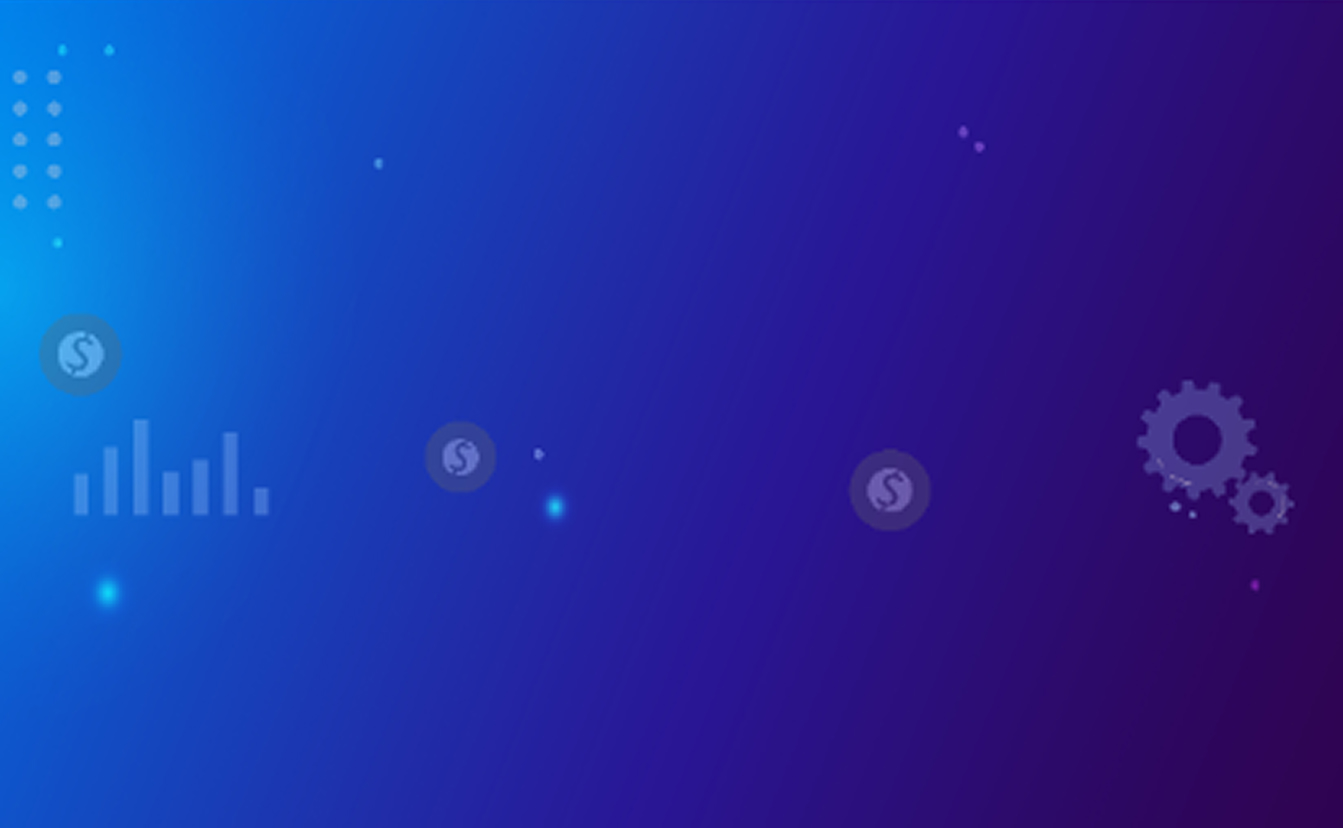
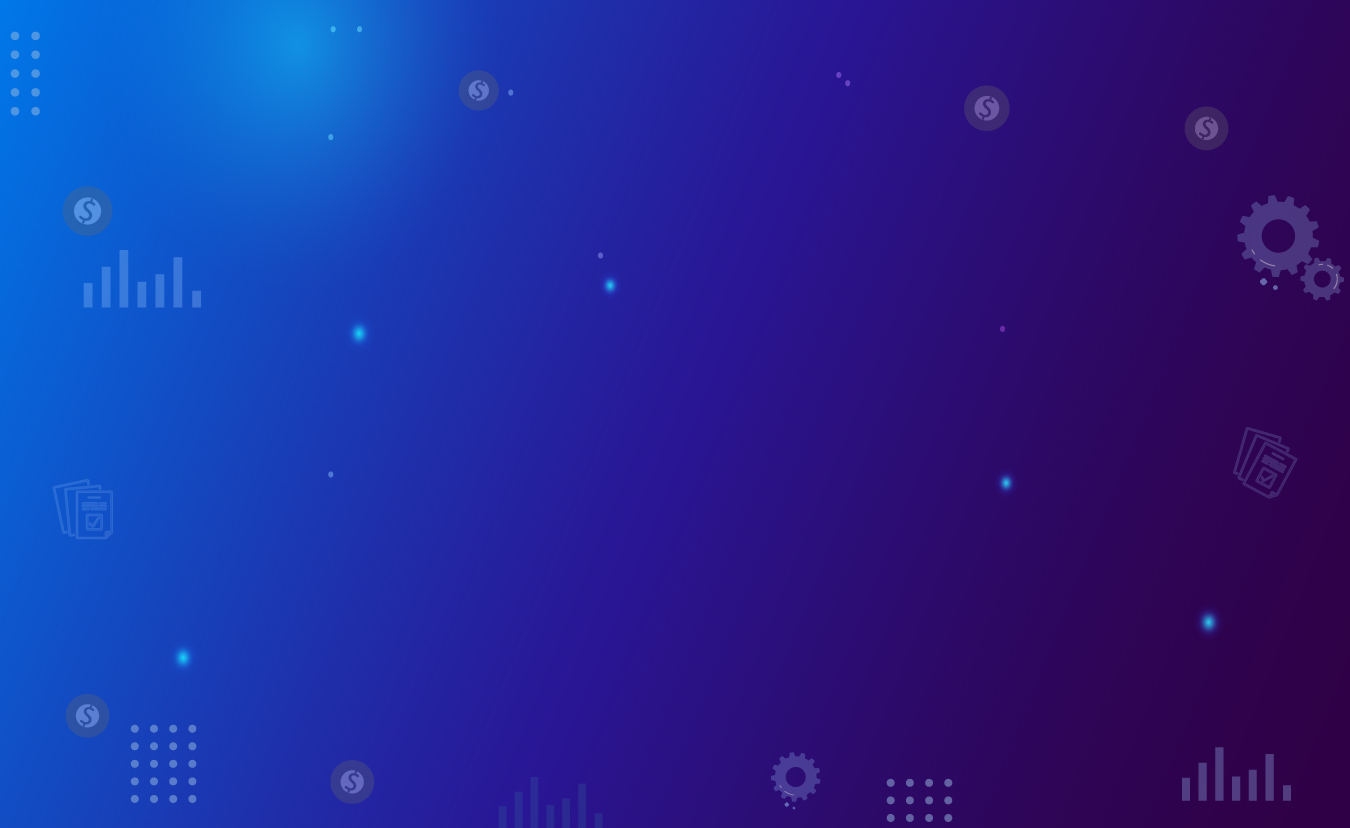
Final changes

diff --git a/frontend/src/app/app.component.css b/frontend/src/app/app.component.css
@@ -305,6 +305,7 @@ background: linear-gradient(180deg,rgba(209, 44, 91, 0.98) 0%, rgba(130, 14, 47,
     background-position: 100%;
     background-size: 100% 100%;  
     height: 600px;
+    border-bottom: 3px solid #fff;
   }
   .level-one{
     padding-top: 40px;    
@@ -458,13 +459,32 @@ background: linear-gradient(180deg,rgba(209, 44, 91, 0.98) 0%, rgba(130, 14, 47,
 }
 
 .gifts-grid {
-  display: grid;
-  grid-template-columns: repeat(3, 1fr); /* 3 columns */ 
-  width: 800px;
-  justify-items: center; /* Center items within their grid cells */
-  align-items: center; /* Vertically center items */
-  gap: 30px 10px;
-  padding-top: 40px;
+  display: flex;
+  flex-wrap: wrap;           /* allow multiple rows */
+  justify-content: center;   /* center each row's content */
+  gap: 20px;                 /* spacing between items */
+  max-width: 900px;
+  margin: 32px auto;
+  padding: 0 12px;
+  box-sizing: border-box;
+}
+
+.gift-item {
+  /* width: (100% - total horizontal gaps) / 3  */
+  flex: 0 0 calc((100% - 40px) / 3); /* 3 columns, gap*2 = 40px */
+  max-width: 280px;           /* optional cap */
+  display: flex;
+  justify-content: center;
+  align-items: center;
+  box-sizing: border-box;
+}
+
+.gift-image {
+  width: 100%;
+  max-width: 220px;           /* control box size */
+  height: auto;
+  display: block;
+  object-fit: contain;
 }
 
 .user-form {

diff --git a/frontend/src/app/quiz-modal/quiz-modal.component.html b/frontend/src/app/quiz-modal/quiz-modal.component.html
@@ -4,10 +4,20 @@
       <i class="bi bi-x-circle-fill"></i>
     </button>
     <div class="content-wrapper">
+      
+      <!-- Surprise block only for question 4 -->
+      <ng-container *ngIf="quiz.id === 4">
+        <div class="info-text">
+          <strong class="heading">🎉 SURPRISE!</strong>
+          <span class="bonus-text">+2 bonus points for quick thinking</span>
+        </div>
+      </ng-container>
+      
+
+      <!-- Question -->
       <h2 class="question-text">{{ quiz.question }}</h2>
       
-      <div *ngIf="quiz.options && quiz.options.length > 0; else infoTemplate">
-
+      <!-- Options -->
       <div class="options-grid">
         <button  *ngFor="let option of quiz.options; let i = index"
                 class="option-button"
@@ -17,14 +27,6 @@
           <span class="option-text">{{ option }}</span>
         </button>
       </div>
-      </div>
-
-      <ng-template #infoTemplate>
-        <div class="info-text">
-          <strong class="heading">SURPRISE !</strong>
-          <p>+2 bonus points <br> for quick thinking.</p>
-        </div>
-      </ng-template>
     </div>
   </div>
 </div>

diff --git a/frontend/src/app/app.component.ts b/frontend/src/app/app.component.ts
@@ -48,13 +48,6 @@ export class AppComponent {
     },
     {
       id: 3, // Added ID
-      question: "",
-      options:[
-
-      ]
-    },
-    {
-      id: 4, // Added ID
       question: "Why must SAP and Warehouse Management System be frozen during the inventory count?",
       options: [
         "To prevent unauthorized access",
@@ -64,7 +57,7 @@ export class AppComponent {
       ]
     },
     {
-      id: 5, // Added ID
+      id: 4, // Added ID
       question: "Which of the following is NOT a valid documentation requirement?",
       options: [
         "Screenshot of SAP report",
@@ -74,7 +67,7 @@ export class AppComponent {
       ]
     },
     {
-      id: 6, // Added ID
+      id: 5, // Added ID
       question: "What is minimum threshold for mandatory Unilever employee attendance at third-party counts (non-supply chain entities)?",
       options: [
         "€100,000",
@@ -83,7 +76,6 @@ export class AppComponent {
         "€1,000,000"
       ]
     },
-    // ... add the rest of your questions with unique IDs
   ];
 
 

diff --git a/frontend/src/app/quiz-modal/quiz-modal.component.css b/frontend/src/app/quiz-modal/quiz-modal.component.css
@@ -7,7 +7,7 @@
   width: 900px;
   height: 100vh;
   z-index: 1000;
-  background-image: url('../../assets/quiz-background.png');
+  background-image: url('../../assets/quiz-background.jpg');
   background-repeat: no-repeat;
   background-size: 100%;
   /* background-size: 600px 100vh; */
@@ -38,18 +38,30 @@
 }
 
 .info-text {
-  color: #ffffff;
-font-size: 2.9rem;
-    line-height: 45px;
-    text-align: center;
-    font-weight: 600;
-  padding: 20px 0; /* Add some vertical spacing */
-
-  .heading{
-    font-size: 4.5rem;
-    line-height: 100px;
-  }
+  display: flex;
+  justify-content: center;
+  align-items: center;
+  gap: 12px;                /* space between items */
+  padding: 3px 16px;
+  border-radius: 12px;
+  color: #fff;
+  font-weight: 600;
+  font-size: 1.2rem;
+  text-align: center;
 }
+
+.info-text .heading {
+  font-size: 1.5rem;
+  font-weight: 700;
+}
+
+.info-text .bonus-text {
+  font-size: 1rem;
+  font-weight: 500;
+  opacity: 0.95;
+}
+
+
 
 
 /* The new inner container that holds the text and scrolls */

diff --git a/frontend/src/app/app.component.html b/frontend/src/app/app.component.html
@@ -112,6 +112,9 @@
             <div class="gift-item" (click)="openQuizModal(quizzes[1])">
               <img src="assets/gift-box.png" alt="Gift Box" class="gift-image">
             </div>
+            <!-- <div class="gift-item" (click)="openQuizModal(quizzes[2])">
+              <img src="assets/gift-box.png" alt="Gift Box" class="gift-image">
+            </div> -->
             <div class="gift-item" (click)="openQuizModal(quizzes[2])">
               <img src="assets/gift-box.png" alt="Gift Box" class="gift-image">
             </div>
@@ -119,9 +122,6 @@
               <img src="assets/gift-box.png" alt="Gift Box" class="gift-image">
             </div>
             <div class="gift-item" (click)="openQuizModal(quizzes[4])">
-              <img src="assets/gift-box.png" alt="Gift Box" class="gift-image">
-            </div>
-            <div class="gift-item" (click)="openQuizModal(quizzes[5])">
               <img src="assets/gift-box.png" alt="Gift Box" class="gift-image">
             </div>
           </div>

diff --git a/frontend/src/styles.css b/frontend/src/styles.css
@@ -11,7 +11,7 @@ body {
 
 
   .custom-fixed-modal{
-    background: url('assets/quiz-background.png') no-repeat top center;
+    background: url('assets/quiz-background.jpg') no-repeat top center;
     background-size: 600px 100vh;
     margin: 0 auto;
     height: 100vh;

diff --git a/backend/utils/scoreCalculator.js b/backend/utils/scoreCalculator.js
@@ -2,9 +2,9 @@
 const correctAnswers = {
   1: "B",
   2: "B",
-  4: "B",
-  5: "C",
-  6: "C"
+  3: "B",
+  4: "C",
+  5: "C"
 };
 
 export const calculateScore = (submittedAnswers) => {
